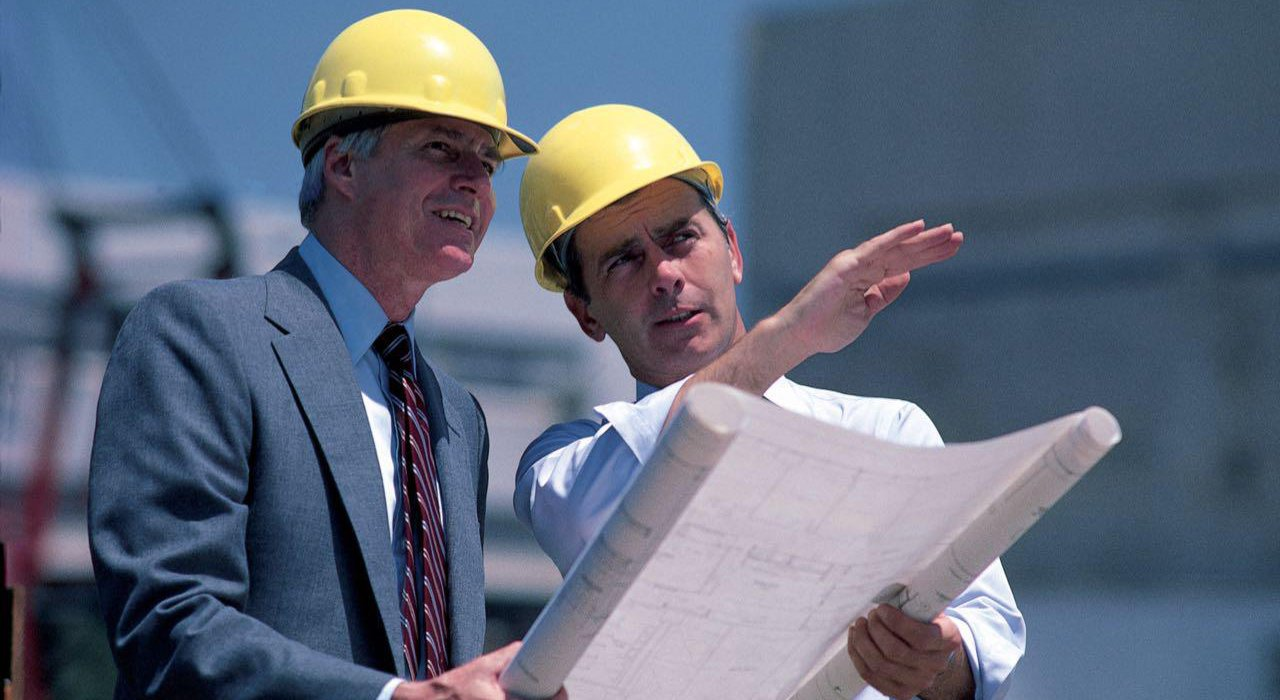
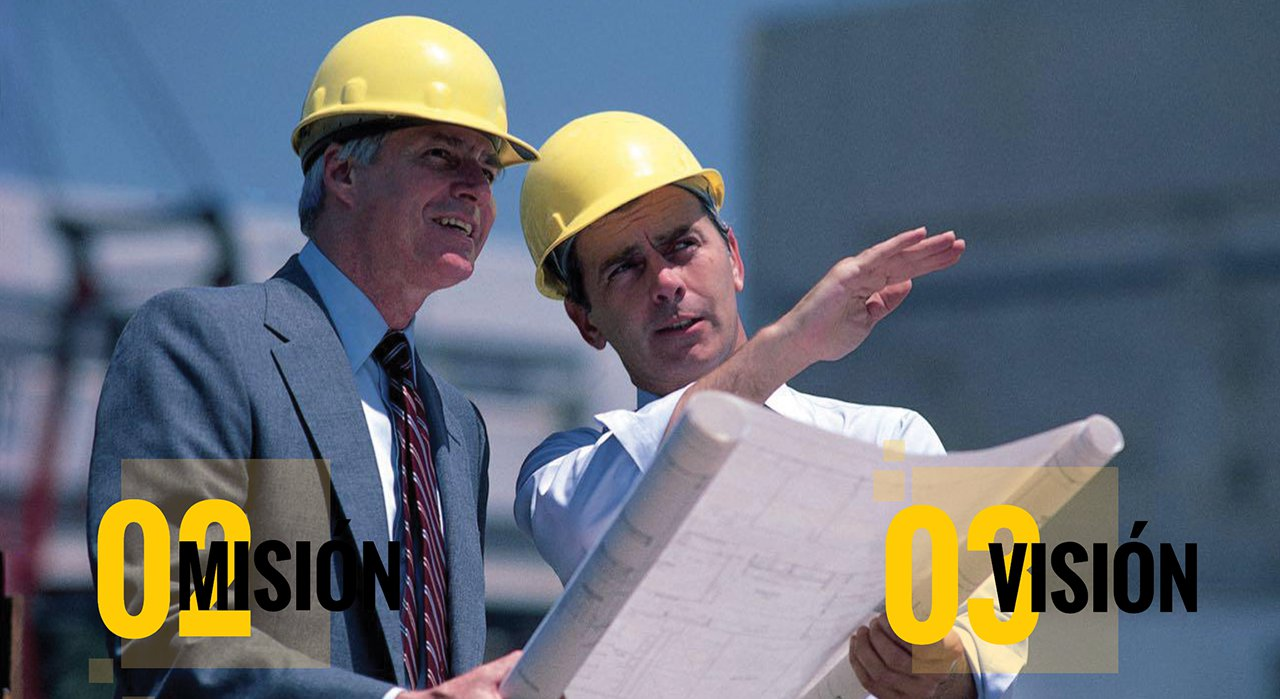
adelanto pagina nosotros

diff --git a/nosotros.html b/nosotros.html
@@ -77,16 +77,16 @@
 
         <div class="row margintop50">
             <div class="imagencontitulo">
-                <img src="img/nosotros2.jpg" >
+                <img src="img/nosotros2.jpg" class="nosotros2" >
             </div>
             <div class="col-xs12"><h3 class="gradienteamarillo">OFRECEMOS <b>VENTAJAS ÚNICAS</b></h3></div>
             <div class="iniciofondocasa"><img src="img/nosotrosfondocasa.jpg" class="img-responsive"></div>
-            <div class="col-md-6 margintop25">
+            <div class="col-sm-6 margintop25">
                 <div class="iniciotexto1 minheight200 paddingnosotros valign-wrapper z-depth-1 hoverable">
                     <p class="valign">Nuestra misión es brindar un servicio de construcción de alta calidad, destacado por el servicio de ubicación, reunión y transporte de los materiales necesarios para la ejecución de proyectos, permitiendo que el cliente pueda apreciar desde fuera como se elabora lo que desea, sin necesidad de formar parte en el proceso constructivo, ofreciendo un servicio dedicado, exclusivo, ordenado y responsable.</p>
                 </div>
             </div>
-            <div class="col-md-6 margintop25">
+            <div class="col-sm-6 margintop25 vision">
                 <div class="iniciotexto1 minheight200 paddingnosotros valign-wrapper z-depth-1 hoverable">
                     <p class="valign">Tras incursionar por 5 años en el mercado barquisimetano, queremos expandir nuestra oferta a otras ciudades y satisfacer la demanda de clientes que necesitan apoyo en construcción porque no tienen el tiempo necesario para encargarse por sus propios medios.</p>
                 </div>
@@ -103,12 +103,24 @@
                 <div class="cuadroamarillo">
                     <div class="contenidoslider">
                         <span>04</span>
-                        <div class="tituloslider">
+                        <div class="tituloslider valores">
                             <h2 class="black-text">VALORES <br><small>institucionales</small></h2>
                         </div>
                     </div>
                 </div>
             </div>
+            <div class="row margintop25">
+                <div class="col-sm-4 height200"><h3 class="gradienteamarillo subtitulocongradiente">VALORES <b>ESENCIALES</b></h3></div>
+                <div class="col-sm-8">
+                    <p>Gracias a la oportunidad que nos ha brindado confiándonos sus proyectos, hemos logrado conformar fuertes bases en los valores esenciales que erequieren una atención y trabajo de calidad, los cuales son:</p>
+<p><b>Perfecciosnismo:</b> Cuidamos todos los detalles, evaluando constantemente nuestro trabajo, para entregarle un proyecto con un acabado digno de admiración.</p>
+<p><b>Puntualidad:</b> Para nosotros es muy importante cumplir con los tiempos establecidos, por ello nos esmeramos en abarcar con eficacia los plazos de entrega.</p>
+<p><b>Eficiencia:</b> Nos esmeramos en realizar sus proyectos con los mejores medios posibles, para asegurar la calidad del trabajo.</p>
+<p><b>Orden:</b> Para trabajar tomamos en cuenta el orden, cubrir las etapas con el debido proceso y mantener el área de trabajo limpia y con el aspecto que merece.</p>
+<p>Gracias a la identidad corporativa y el sentido de pertenencia que hemos desarrollado, estos valores forman parte de todo nuestro equipo, logrando así que su proyecto quede en las mejores manos.</p>
+                </div>
+            </div>
+
         </div>
     </div>
 

diff --git a/css/style.css b/css/style.css
@@ -112,6 +112,13 @@ footer .rrssfa { width: 45px; opacity: 1; }
 .height200 {height: 200px;}
 .minheight200 { min-height: 200px; }
 .paddingnosotros{ padding: 5px 30px 5px 30px; }
+.valores h2 {    font-size: 65px;
+    font-weight: bold;
+    text-align: left;
+    position: absolute;
+    top: 50px;
+    width: 250px;
+    margin-left: 182px;}
 
 @media (max-width:1440px){
   .ofrecemos{ position: absolute;top: -100px;}
@@ -142,6 +149,7 @@ footer .rrssfa { width: 45px; opacity: 1; }
     .cuadroamarillo span { font-size: 175px; }
     .cuadroamarillo h2 {font-size: 65px; top: 0px; }
     .cuadroamarillo { left: 40%; width: 300px; height: auto; }
+    .vision .minheight200 { min-height: 307px;}
 }
 @media (max-width:520px){
     .nivo-caption1 { left: 50%; width: 225px; height: auto; }
@@ -155,4 +163,6 @@ footer .rrssfa { width: 45px; opacity: 1; }
     .fancy span:after { position: absolute; height: 1px; border-bottom: 4px solid #FFCB05; top: 0; width: 0%; }
     .fancy span:before { right: 100%; margin-right: 0px; }
     .fancy span:after { left: 100%; margin-left: 0px; }
+    .nosotros2{ margin-left: -50px;}
+    .valores h2 { margin-left: 110px;}
 }
